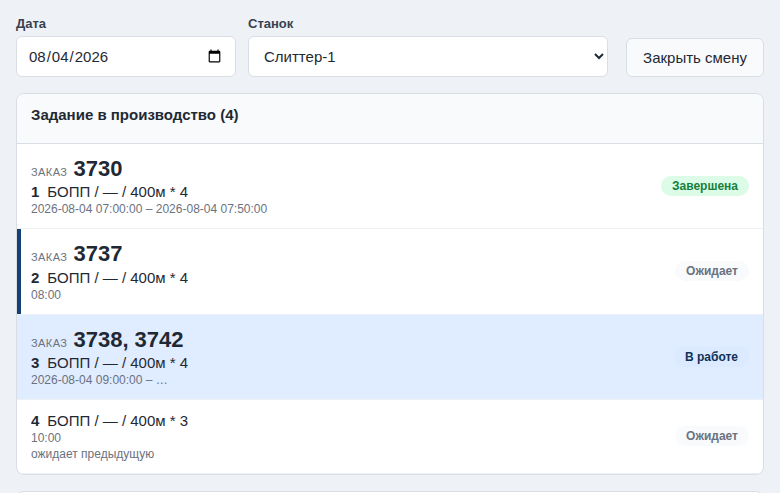
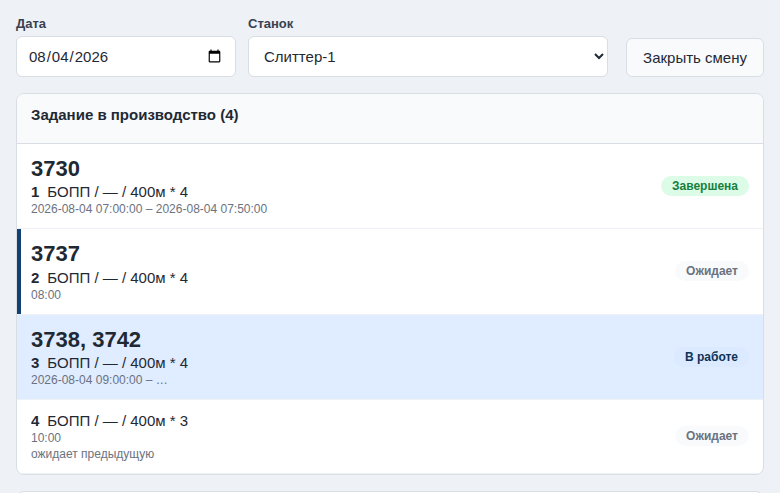
fix(atex-slitter #4606): убрать слово «Заказ» — в задании остаётся только номер
В карточке очереди и в шапке текущего задания подпись «Заказ» убрана: крупное
число на своём месте ни с чем не спутать, а подпись занимала место в узкой
карточке. Скриншот в docs/screenshots переснят со стенда.

Vecmory-Session: b96ce77c-5ab3-44d6-bd00-460a32fc9fe3

Changed region(s): [[0.0308, 0.6694, 0.2462, 0.7302], [0.0308, 0.4868, 0.1538, 0.5477], [0.0308, 0.3043, 0.1538, 0.3651]]

diff --git a/download/atex/css/slitter.css b/download/atex/css/slitter.css
@@ -128,10 +128,9 @@
 .atex-sl-cut-num { font-weight: 700; flex: none; }
 .atex-sl-cut-spec { overflow: hidden; text-overflow: ellipsis; white-space: nowrap; }
 .atex-sl-cut-time { font-size: 12px; color: var(--sl-muted); font-variant-numeric: tabular-nums; }
-/* #4606: номер заказа в карточке очереди — крупно (оператор ищет задание по заказу).
-   Подпись «Заказ» мелкая и приглушённая, чтобы кегль забирал сам номер. */
+/* #4606: номер заказа в карточке очереди — крупно и без подписи «Заказ»
+   (оператор ищет задание по заказу, крупное число ни с чем не спутать). */
 .atex-sl-cut-order { display: flex; align-items: baseline; gap: 6px; min-width: 0; }
-.atex-sl-cut-order-cap { flex: none; font-size: 11px; text-transform: uppercase; letter-spacing: 0.04em; color: var(--sl-muted); }
 .atex-sl-cut-order-no {
     font-size: 22px;
     font-weight: 700;
@@ -171,9 +170,8 @@
 .atex-sl-head-main { display: flex; align-items: center; gap: 12px; flex-wrap: wrap; }
 .atex-sl-head-title { margin: 0; font-size: 20px; }
 /* #4606: номер заказа текущего задания — строкой над заголовком, самый крупный
-   кегль пульта (планшет стоит у станка, номер читается издалека). */
+   кегль пульта (планшет стоит у станка, номер читается издалека), без подписи. */
 .atex-sl-head-order { display: flex; align-items: baseline; gap: 8px; margin-bottom: 6px; flex-wrap: wrap; }
-.atex-sl-head-order-cap { font-size: 13px; text-transform: uppercase; letter-spacing: 0.04em; color: var(--sl-muted); }
 .atex-sl-head-order-no { font-size: 30px; font-weight: 700; line-height: 1.1; font-variant-numeric: tabular-nums; }
 .atex-sl-head-meta { font-size: 13px; color: var(--sl-muted); }
 .atex-sl-head .atex-sl-life-actions { margin-top: 0; justify-content: flex-end; }

diff --git a/download/atex/js/slitter.js b/download/atex/js/slitter.js
@@ -2043,10 +2043,10 @@
             // #4606: номер заказа — первой строкой и крупно: оператор ищет задание
             // по заказу, а не по позиции в очереди. Нет заказа (задание в запас или
             // отчёт недоступен) — строку не рисуем, карточка выглядит как раньше.
+            // Слова «Заказ» нет: крупное число в карточке ни с чем не спутать.
             var orderText = self.cutOrderText(cut);
             if (orderText) {
                 cutMain.push(el('div', { class: 'atex-sl-cut-order' }, [
-                    el('span', { class: 'atex-sl-cut-order-cap', text: 'Заказ' }),
                     el('span', { class: 'atex-sl-cut-order-no', text: orderText })
                 ]));
             }
@@ -2211,7 +2211,6 @@
         var orderText = this.cutOrderText(cut);
         if (orderText) {
             wrap.appendChild(el('div', { class: 'atex-sl-head-order' }, [
-                el('span', { class: 'atex-sl-head-order-cap', text: 'Заказ' }),
                 el('span', { class: 'atex-sl-head-order-no', text: orderText })
             ]));
         }
